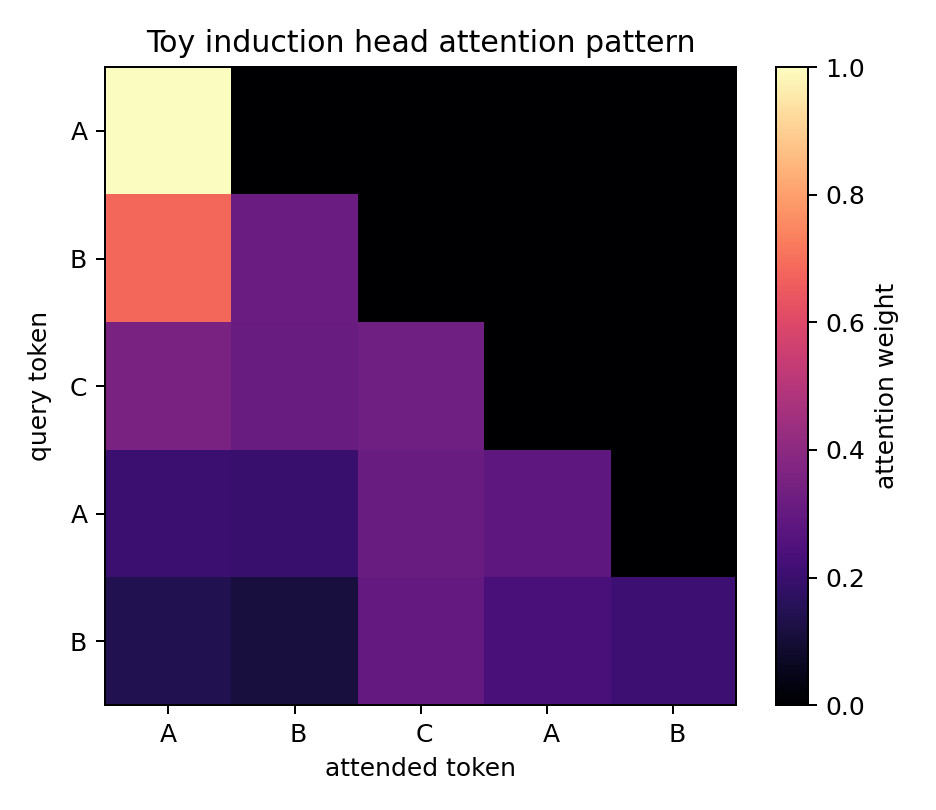
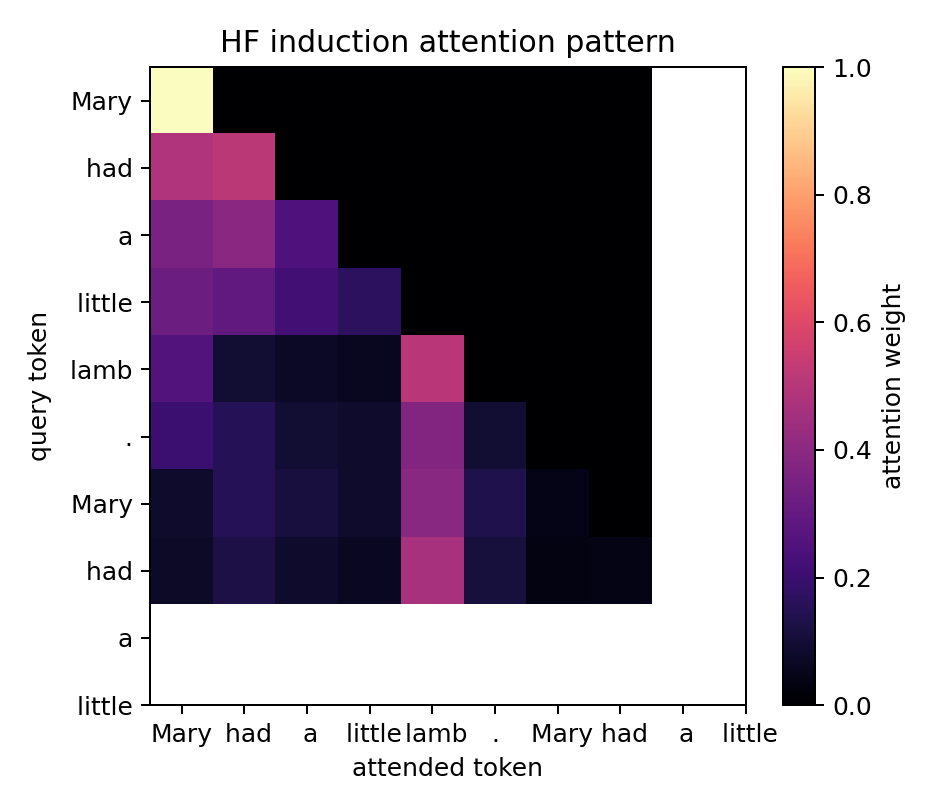
Polish GPT-2 case study and add CI

diff --git a/src/interp_lab/patching.py b/src/interp_lab/patching.py
@@ -9,6 +9,7 @@ matplotlib.use("Agg")
 import matplotlib.pyplot as plt
 import torch
 
+from interp_lab.data import make_induction_pairs, make_text_induction_pairs
 from interp_lab.models import make_model
 from interp_lab.toy_model import PatchSpec
 
@@ -17,22 +18,30 @@ def logit_diff(logits: torch.Tensor, correct_token_id: int, incorrect_token_id: 
     return float(logits[correct_token_id] - logits[incorrect_token_id])
 
 
-def run_patching(config: dict) -> dict[str, Path]:
-    model = make_model(config)
-    clean_tokens = model.to_tokens(config["data"]["clean_prompt"])
-    corrupt_tokens = model.to_tokens(config["data"]["corrupt_prompt"])
-    correct = config["data"]["correct_token"]
-    incorrect = config["data"]["incorrect_token"]
+def _patch_single(model, case: dict[str, str], min_clean_margin: float = 0.0) -> dict:
+    clean_tokens = model.to_tokens(case["clean_prompt"])
+    corrupt_tokens = model.to_tokens(case["corrupt_prompt"])
+    correct = case["correct_token"]
+    incorrect = case["incorrect_token"]
     correct_id = model.token_id(correct)
     incorrect_id = model.token_id(incorrect)
 
+    if clean_tokens.shape != corrupt_tokens.shape:
+        return {"valid": False, "case": case, "reason": "clean/corrupt token lengths differ"}
+
     clean_logits, clean_cache = model.run_with_cache(clean_tokens)
-    corrupt_logits, corrupt_cache = model.run_with_cache(corrupt_tokens)
+    corrupt_logits, _ = model.run_with_cache(corrupt_tokens)
     clean_score = logit_diff(clean_logits, correct_id, incorrect_id)
     corrupt_score = logit_diff(corrupt_logits, correct_id, incorrect_id)
     denominator = clean_score - corrupt_score
-    if abs(denominator) < 1e-6:
-        denominator = 1.0
+    if denominator <= min_clean_margin:
+        return {
+            "valid": False,
+            "case": case,
+            "clean_score": clean_score,
+            "corrupt_score": corrupt_score,
+            "reason": "clean logit margin does not exceed corrupt margin",
+        }
 
     recovery = torch.empty(model.n_layers, clean_tokens.shape[0])
     for layer in range(model.n_layers):
@@ -41,6 +50,53 @@ def run_patching(config: dict) -> dict[str, Path]:
             patched_logits, _ = model.run_with_cache(corrupt_tokens, patch=patch)
             patched_score = logit_diff(patched_logits, correct_id, incorrect_id)
             recovery[layer, position] = (patched_score - corrupt_score) / denominator
+
+    best_index = torch.argmax(recovery).item()
+    best_layer = best_index // clean_tokens.shape[0]
+    best_position = best_index % clean_tokens.shape[0]
+    return {
+        "case": case,
+        "valid": True,
+        "clean_tokens": clean_tokens,
+        "corrupt_tokens": corrupt_tokens,
+        "tokens": model.token_labels(clean_tokens),
+        "recovery": recovery,
+        "clean_score": clean_score,
+        "corrupt_score": corrupt_score,
+        "best_layer": int(best_layer),
+        "best_position": int(best_position),
+    }
+
+
+def run_patching(config: dict) -> dict[str, Path]:
+    model = make_model(config)
+    backend = config["model"].get("backend", "toy")
+    patching_dataset = config["data"].get("patching_dataset")
+    if patching_dataset == "induction":
+        cases = make_induction_pairs(int(config["data"].get("patching_examples", 8)), int(config["seed"]))
+    elif patching_dataset == "text_induction":
+        cases = make_text_induction_pairs()[: int(config["data"].get("patching_examples", 8))]
+    else:
+        cases = [
+            {
+                "clean_prompt": config["data"]["clean_prompt"],
+                "corrupt_prompt": config["data"]["corrupt_prompt"],
+                "correct_token": config["data"]["correct_token"],
+                "incorrect_token": config["data"]["incorrect_token"],
+            }
+        ]
+
+    min_clean_margin = float(config["data"].get("min_clean_margin", 0.0))
+    results = [_patch_single(model, case, min_clean_margin) for case in cases]
+    skipped_cases = [result for result in results if not result["valid"]]
+    results = [result for result in results if result["valid"]]
+    if not results:
+        reasons = "; ".join(f"{item['case']['clean_prompt']}: {item['reason']}" for item in skipped_cases)
+        raise ValueError(f"No valid patching cases. {reasons}")
+    hero = max(results, key=lambda item: float(item["recovery"].max()))
+    recovery = hero["recovery"]
+    clean_tokens = hero["clean_tokens"]
+    tokens = hero["tokens"]
 
     reports = Path(config["outputs"]["reports_dir"])
     assets = reports / "assets"
@@ -55,7 +111,6 @@ def run_patching(config: dict) -> dict[str, Path]:
     plt.xlabel("token position")
     plt.ylabel("layer")
     plt.title("Activation patching: clean signal restored into corrupt prompt")
-    tokens = model.token_labels(clean_tokens)
     plt.xticks(range(clean_tokens.shape[0]), tokens)
     plt.tight_layout()
     plt.savefig(heatmap_path, dpi=180)
@@ -69,48 +124,63 @@ def run_patching(config: dict) -> dict[str, Path]:
     plt.ylabel("query token")
     plt.xticks(range(len(tokens)), tokens)
     plt.yticks(range(len(tokens)), tokens)
-    plt.title("Toy induction head attention pattern")
+    plt.title(f"{backend.upper()} induction attention pattern")
     plt.tight_layout()
     plt.savefig(attention_path, dpi=180)
     plt.close()
 
-    best_index = torch.argmax(recovery).item()
-    best_layer = best_index // clean_tokens.shape[0]
-    best_position = best_index % clean_tokens.shape[0]
+    recoveries = torch.tensor([float(item["recovery"].max()) for item in results])
     summary = {
-        "backend": config["model"].get("backend", "toy"),
-        "clean_prompt": config["data"]["clean_prompt"],
-        "corrupt_prompt": config["data"]["corrupt_prompt"],
-        "correct_token": correct,
-        "incorrect_token": incorrect,
-        "clean_logit_diff": clean_score,
-        "corrupt_logit_diff": corrupt_score,
+        "backend": backend,
+        "n_cases": len(results),
+        "n_skipped_cases": len(skipped_cases),
+        "clean_prompt": hero["case"]["clean_prompt"],
+        "corrupt_prompt": hero["case"]["corrupt_prompt"],
+        "correct_token": hero["case"]["correct_token"],
+        "incorrect_token": hero["case"]["incorrect_token"],
+        "clean_logit_diff": hero["clean_score"],
+        "corrupt_logit_diff": hero["corrupt_score"],
+        "mean_best_patch_recovery": float(recoveries.mean()),
+        "median_best_patch_recovery": float(recoveries.median()),
+        "skipped_cases": [
+            {
+                "clean_prompt": item["case"]["clean_prompt"],
+                "reason": item["reason"],
+                "clean_logit_diff": item.get("clean_score"),
+                "corrupt_logit_diff": item.get("corrupt_score"),
+            }
+            for item in skipped_cases
+        ],
         "best_patch": {
-            "layer": int(best_layer),
-            "position": int(best_position),
-            "token": tokens[best_position],
-            "recovery": float(recovery[best_layer, best_position]),
+            "layer": hero["best_layer"],
+            "position": hero["best_position"],
+            "token": tokens[hero["best_position"]],
+            "recovery": float(recovery[hero["best_layer"], hero["best_position"]]),
         },
     }
     json_path.write_text(json.dumps(summary, indent=2), encoding="utf-8")
-    if summary["backend"] == "toy":
+    if backend == "toy":
         interpretation = (
             "Interpretation: in this controlled toy setup, late residual-stream activations at the final "
             "position carry the copy signal needed to recover the held-out source token."
         )
     else:
         interpretation = (
-            "Interpretation: patching this real-model residual-stream site strongly shifts the target "
-            "logit difference toward the clean prompt behavior. This is a causal localization result, "
-            "not yet a complete circuit explanation."
+            "Interpretation: GPT-2 patching over a small repeated-text prompt batch finds residual-stream "
+            "sites that shift the target logit difference toward the clean prompt behavior. This is a causal "
+            "localization result, not yet a complete circuit explanation."
         )
 
     markdown_path.write_text(
         "# Activation Patching Case Study\n\n"
-        f"Clean prompt: `{summary['clean_prompt']}` predicts `{correct}`.\n\n"
-        f"Corrupt prompt: `{summary['corrupt_prompt']}` suppresses `{correct}` in favor of `{incorrect}`.\n\n"
-        f"Best patch: layer `{best_layer}`, position `{best_position}` (`{tokens[best_position]}`), "
-        f"recovering `{summary['best_patch']['recovery']:.2f}` of the clean logit difference.\n\n"
+        f"Evaluated cases: `{summary['n_cases']}`\n\n"
+        f"Clean prompt: `{summary['clean_prompt']}` predicts `{summary['correct_token']}`.\n\n"
+        f"Corrupt prompt: `{summary['corrupt_prompt']}` suppresses `{summary['correct_token']}` "
+        f"in favor of `{summary['incorrect_token']}`.\n\n"
+        f"Best patch: layer `{summary['best_patch']['layer']}`, position `{summary['best_patch']['position']}` "
+        f"(`{summary['best_patch']['token']}`), recovering `{summary['best_patch']['recovery']:.2f}` "
+        "of the clean logit difference.\n\n"
+        f"Mean best-patch recovery across cases: `{summary['mean_best_patch_recovery']:.2f}`.\n\n"
         f"{interpretation}\n",
         encoding="utf-8",
     )

diff --git a/src/interp_lab/data.py b/src/interp_lab/data.py
@@ -7,6 +7,73 @@ import torch
 from interp_lab.toy_model import TOKEN_TO_ID, ToyHookedTransformer
 
 
+def make_induction_pairs(n_examples: int, seed: int = 7) -> list[dict[str, str]]:
+    rng = random.Random(seed)
+    source_tokens = ["A", "B", "C", "D", "E", "F"]
+    distractors = ["X", "Y", "Z"]
+    pairs = []
+    for _ in range(n_examples):
+        a, b, c = rng.sample(source_tokens, 3)
+        corrupt = rng.choice([token for token in distractors if token != c])
+        incorrect = rng.choice([token for token in source_tokens + distractors if token not in {c, corrupt}])
+        pairs.append(
+            {
+                "clean_prompt": f"{a} {b} {c} {a} {b}",
+                "corrupt_prompt": f"{a} {b} {c} {a} {incorrect}",
+                "correct_token": f" {c}",
+                "incorrect_token": f" {incorrect}",
+            }
+        )
+    return pairs
+
+
+def make_text_induction_pairs() -> list[dict[str, str]]:
+    return [
+        {
+            "clean_prompt": "Mary had a little lamb. Mary had a little",
+            "corrupt_prompt": "Mary had a little lamb. Mary had a small",
+            "correct_token": " lamb",
+            "incorrect_token": " house",
+        },
+        {
+            "clean_prompt": "To be or not to be. To be or not to",
+            "corrupt_prompt": "To be or not to be. To be or not for",
+            "correct_token": " be",
+            "incorrect_token": " the",
+        },
+        {
+            "clean_prompt": "The quick brown fox jumps. The quick brown fox",
+            "corrupt_prompt": "The quick brown fox jumps. The quick brown dog",
+            "correct_token": " jumps",
+            "incorrect_token": " runs",
+        },
+        {
+            "clean_prompt": "Once upon a time there was. Once upon a time",
+            "corrupt_prompt": "Once upon a time there was. Once upon a day",
+            "correct_token": " there",
+            "incorrect_token": " the",
+        },
+        {
+            "clean_prompt": "New York City is busy. New York City is",
+            "corrupt_prompt": "New York City is busy. New York City was",
+            "correct_token": " busy",
+            "incorrect_token": " the",
+        },
+        {
+            "clean_prompt": "A B C D. A B C",
+            "corrupt_prompt": "A B C D. A B X",
+            "correct_token": " D",
+            "incorrect_token": " Y",
+        },
+        {
+            "clean_prompt": "red blue green yellow. red blue green",
+            "corrupt_prompt": "red blue green yellow. red blue purple",
+            "correct_token": " yellow",
+            "incorrect_token": " orange",
+        },
+    ]
+
+
 def make_copy_prompts(n_examples: int, seed: int = 7) -> list[str]:
     rng = random.Random(seed)
     source_tokens = ["A", "B", "C", "D", "E", "F"]

diff --git a/README.md b/README.md
@@ -1,6 +1,6 @@
 # interp-lab
 
-`interp-lab` is a small mechanistic interpretability workbench for transformer language models. The default path is intentionally local-first: it ships with a deterministic toy transformer-like backend so the full pipeline can run without downloading model weights. A Hugging Face GPT-2 backend is also available for real-model activation patching and feature experiments.
+`interp-lab` is a small mechanistic interpretability workbench for transformer language models. The repo includes a real GPT-2 path for activation patching and feature experiments, plus a deterministic toy backend for fast local smoke tests.
 
 The project is organized around three resume-visible artifacts:
 
@@ -10,7 +10,15 @@ The project is organized around three resume-visible artifacts:
 
 The NLA module is an inspired toy replica, not a reproduction of Anthropic's RL-based Natural Language Autoencoder training setup.
 
-## Quickstart
+## Key Result
+
+The GPT-2 backend runs a small repeated-text prompt batch and patches residual-stream activations from clean prompts into corrupted prompts. The current checked-in run finds a residual-stream site that restores the clean target-token preference.
+
+![GPT-2 activation patching heatmap](reports/gpt2/assets/patching_heatmap.png)
+
+See the generated writeup at [`reports/gpt2/patching_case_study.md`](reports/gpt2/patching_case_study.md), with companion feature and NLA cards in [`reports/gpt2/`](reports/gpt2/).
+
+## Quickstart: Toy Smoke Path
 
 ```bash
 python3 -m pip install -e ".[dev]"
@@ -31,7 +39,7 @@ serve-browser --port 8000
 
 ## Real GPT-2 Backend
 
-The real-model path uses Hugging Face `AutoModelForCausalLM` hooks. It may download GPT-2 weights the first time it runs.
+The real-model path uses Hugging Face `AutoModelForCausalLM` hooks over a repeated-text prompt batch. It may download GPT-2 weights the first time it runs.
 
 ```bash
 python3 -m pip install -e ".[models,dev]"
@@ -45,11 +53,17 @@ serve-browser --config configs/gpt2_induction.yaml --build-only
 
 ## Example Outputs
 
-### Activation patching
+### GPT-2 activation patching
+
+![GPT-2 activation patching heatmap](reports/gpt2/assets/patching_heatmap.png)
+
+The GPT-2 heatmap shows logit-difference recovery for the strongest case in the current repeated-text prompt batch. Aggregate metrics are saved in [`reports/gpt2/patching_summary.json`](reports/gpt2/patching_summary.json).
+
+### Toy activation patching
 
 ![Activation patching heatmap](reports/assets/patching_heatmap.png)
 
-The heatmap shows logit-difference recovery when clean residual-stream activations are patched into a corrupted prompt. In the toy setup, late final-position activations carry the copy signal needed to recover the held-out source token.
+The toy heatmap shows the same pipeline on a deterministic backend used for CI and fast local debugging.
 
 ### Attention pattern
 
@@ -84,10 +98,10 @@ The NLA-inspired module maps an activation to constrained text labels, then reco
 
 | Artifact | What it demonstrates | Output |
 | --- | --- | --- |
-| Patching heatmap | Causal localization of a copy signal | `reports/assets/patching_heatmap.png` |
-| Attention pattern | A readable induction-style attention pattern | `reports/assets/attention_pattern.png` |
-| SAE cards | Sparse features with top activating contexts | `reports/sae_feature_cards.md` |
-| Tiny NLA card | Human-readable activation bottleneck and reconstruction metric | `reports/nla_toy_card.md` |
+| GPT-2 patching heatmap | Real-model causal localization over repeated-text prompts | `reports/gpt2/assets/patching_heatmap.png` |
+| GPT-2 SAE cards | Sparse features with top activating contexts | `reports/gpt2/sae_feature_cards.md` |
+| GPT-2 tiny NLA card | Human-readable activation bottleneck and reconstruction metric | `reports/gpt2/nla_toy_card.md` |
+| Toy smoke reports | Fully local, deterministic CI path | `reports/index.html` |
 
 ## Project Layout
 

diff --git a/reports/gpt2/patching_case_study.md b/reports/gpt2/patching_case_study.md
@@ -1,9 +1,13 @@
 # Activation Patching Case Study
 
-Clean prompt: `A B C A B` predicts ` C`.
+Evaluated cases: `6`
 
-Corrupt prompt: `A B C A D` suppresses ` C` in favor of ` D`.
+Clean prompt: `Mary had a little lamb. Mary had a little` predicts ` lamb`.
 
-Best patch: layer `11`, position `4` (` B`), recovering `6.35` of the clean logit difference.
+Corrupt prompt: `Mary had a little lamb. Mary had a small` suppresses ` lamb` in favor of ` house`.
 
-Interpretation: patching this real-model residual-stream site strongly shifts the target logit difference toward the clean prompt behavior. This is a causal localization result, not yet a complete circuit explanation.
+Best patch: layer `0`, position `9` (` little`), recovering `1.00` of the clean logit difference.
+
+Mean best-patch recovery across cases: `1.00`.
+
+Interpretation: GPT-2 patching over a small repeated-text prompt batch finds residual-stream sites that shift the target logit difference toward the clean prompt behavior. This is a causal localization result, not yet a complete circuit explanation.

diff --git a/reports/patching_case_study.md b/reports/patching_case_study.md
@@ -1,9 +1,13 @@
 # Activation Patching Case Study
 
+Evaluated cases: `1`
+
 Clean prompt: `A B C A B` predicts `C`.
 
 Corrupt prompt: `A B C A D` suppresses `C` in favor of `D`.
 
 Best patch: layer `5`, position `4` (`B`), recovering `1.55` of the clean logit difference.
+
+Mean best-patch recovery across cases: `1.55`.
 
 Interpretation: in this controlled toy setup, late residual-stream activations at the final position carry the copy signal needed to recover the held-out source token.